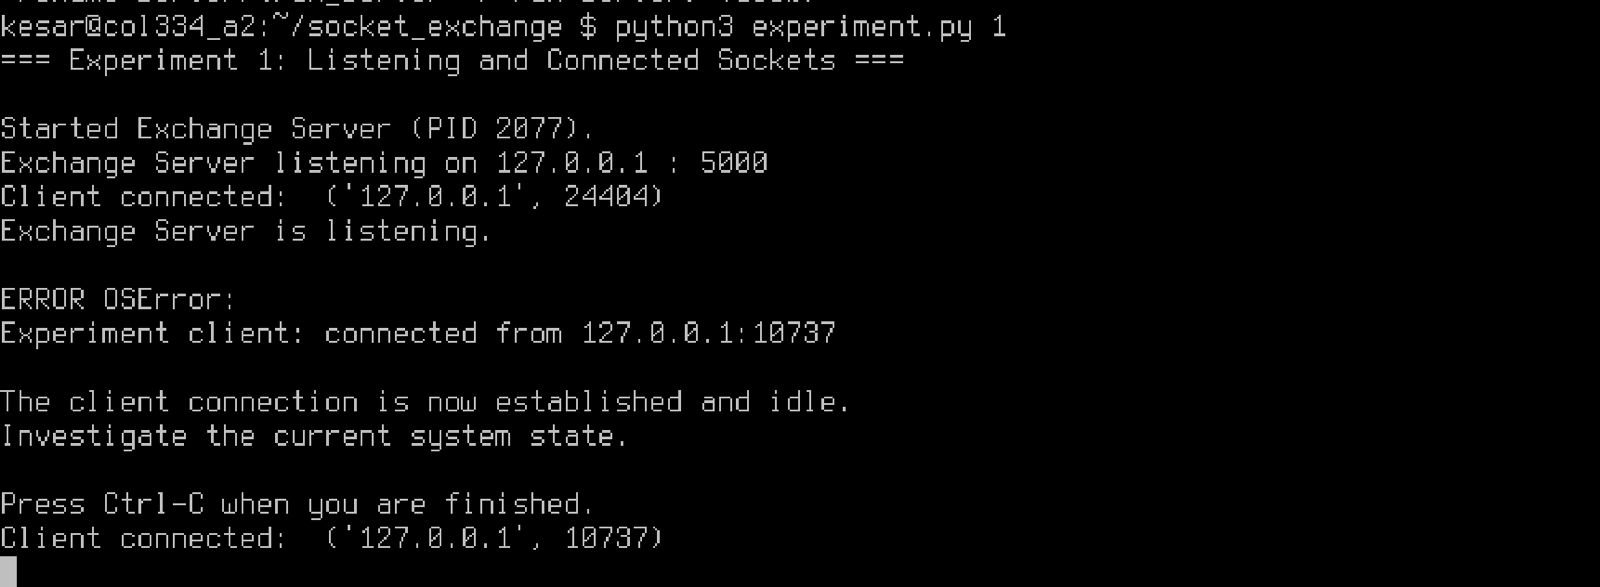
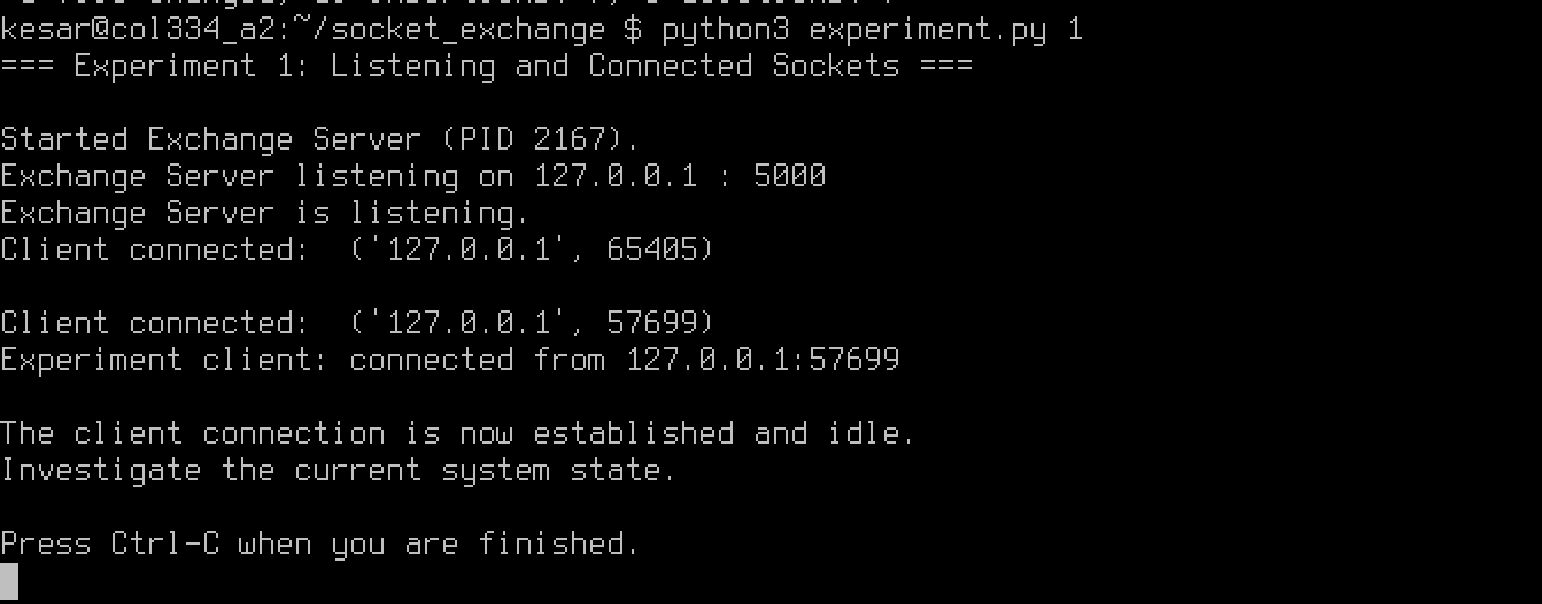
hehe4

diff --git a/sanity_check.py b/sanity_check.py
@@ -1,0 +1,144 @@
+#!/usr/bin/env python3
+import os, socket, subprocess, sys, time
+from pathlib import Path
+
+ROOT = Path(__file__).resolve().parent
+HOST, PORT = "127.0.0.1", 5000
+SERVER = ROOT / "server" / "run-server"
+
+class Fail(Exception): pass
+
+class Client:
+    def __init__(self, name):
+        self.name = name
+        self.s = socket.create_connection((HOST, PORT), timeout=2)
+        self.s.settimeout(0.2)
+        self.buf = b""
+    def send(self, msg): self.s.sendall((msg + "\n").encode())
+    def fragments(self, pieces):
+        for p in pieces:
+            self.s.sendall(p.encode()); time.sleep(.03)
+    def recv(self, timeout=2):
+        end = time.time() + timeout
+        while time.time() < end:
+            if b"\n" in self.buf:
+                line, self.buf = self.buf.split(b"\n", 1)
+                return line.rstrip(b"\r").decode()
+            try:
+                d = self.s.recv(4096)
+                if not d: raise Fail(f"{self.name}: server closed connection")
+                self.buf += d
+            except socket.timeout: pass
+        raise Fail(f"{self.name}: timeout waiting for response")
+    def expect(self, msg):
+        got = self.recv()
+        if got != msg: raise Fail(f"{self.name}: expected {msg!r}, got {got!r}")
+    def close(self):
+        try: self.s.close()
+        except OSError: pass
+
+def wait_for_server(proc):
+    end = time.time() + 3
+    while time.time() < end:
+        if proc.poll() is not None:
+            raise Fail("server exited during startup")
+        try:
+            s = socket.create_connection((HOST, PORT), timeout=.2)
+            s.close(); return
+        except OSError: time.sleep(.05)
+    raise Fail("server did not start listening on 127.0.0.1:5000")
+
+def check_launchers():
+    paths = [ROOT/"server"/"run-server", ROOT/"client"/"run-trader", ROOT/"client"/"run-market-data"]
+    for p in paths:
+        if not p.is_file(): raise Fail(f"missing required launcher: {p}")
+        if not os.access(p, os.X_OK): raise Fail(f"launcher not executable: {p}")
+    print("PASS 1: required launchers exist and are executable")
+
+def main():
+    check_launchers()
+    proc = subprocess.Popen([str(SERVER), HOST, str(PORT)], cwd=ROOT,
+                            stdout=subprocess.DEVNULL, stderr=subprocess.DEVNULL)
+    clients = []
+    try:
+        wait_for_server(proc); print("Server started")
+
+        a = Client("alice"); clients.append(a); a.send("LOGIN alice"); a.expect("OK")
+        print("PASS 2: basic TCP connection + LOGIN")
+
+        f = Client("framing"); clients.append(f)
+        f.fragments(["LOG", "IN frame", "d_user\n"]); f.expect("OK")
+        print("PASS 3: fragmented TCP message reconstructed")
+
+        zq = Client("zero_qty"); clients.append(zq); zq.send("LOGIN zero_qty"); zq.expect("OK")
+        zq.send("BUY JNST 0 100")
+        if not zq.recv().startswith("ERROR"): raise Fail("zero quantity was accepted")
+        zp = Client("zero_price"); clients.append(zp); zp.send("LOGIN zero_price"); zp.expect("OK")
+        zp.send("BUY JNST 1 0")
+        if not zp.recv().startswith("ERROR"): raise Fail("zero price was accepted")
+        print("PASS 4: zero quantity/price rejected")
+
+        md = Client("md"); clients.append(md); md.send("SUBSCRIBE JNST"); md.expect("OK")
+        md.send("BUY JNST 1 100")
+        if not md.recv().startswith("ERROR"): raise Fail("market-data client placed order")
+        a.send("SUBSCRIBE JNST")
+        if not a.recv().startswith("ERROR"): raise Fail("trader subscribed to market data")
+        print("PASS 5: role restrictions")
+
+        seller = Client("seller"); clients.append(seller); seller.send("LOGIN seller"); seller.expect("OK")
+        a.send("BUY IMCT 5 200"); acc = a.recv()
+        if not acc.startswith("ORDER_ACCEPTED "): raise Fail("BUY not accepted")
+        seller.send("SELL IMCT 5 200"); acc = seller.recv()
+        if not acc.startswith("ORDER_ACCEPTED "): raise Fail("SELL not accepted")
+        a.expect("BOUGHT IMCT 5 200"); seller.expect("SOLD IMCT 5 200")
+        print("PASS 6: matching + BOUGHT/SOLD")
+
+        b = Client("buyer2"); s = Client("seller2"); md2 = Client("md2")
+        clients += [b,s,md2]
+        b.send("LOGIN buyer2"); b.expect("OK"); s.send("LOGIN seller2"); s.expect("OK")
+        md2.send("SUBSCRIBE JNST"); md2.expect("OK")
+        b.send("BUY JNST 10 333"); acc=b.recv()
+        if not acc.startswith("ORDER_ACCEPTED "): raise Fail("partial-fill BUY not accepted")
+        s.send("SELL JNST 4 333"); acc=s.recv()
+        if not acc.startswith("ORDER_ACCEPTED "): raise Fail("partial-fill SELL not accepted")
+        b.expect("BOUGHT JNST 4 333"); s.expect("SOLD JNST 4 333"); md2.expect("TRADE JNST 4 333")
+        s.send("SELL JNST 6 333"); acc=s.recv()
+        if not acc.startswith("ORDER_ACCEPTED "): raise Fail("second SELL not accepted")
+        b.expect("BOUGHT JNST 6 333"); s.expect("SOLD JNST 6 333"); md2.expect("TRADE JNST 6 333")
+        print("PASS 7: partial fills + market-data TRADE")
+
+        c = Client("canceler"); clients.append(c); c.send("LOGIN canceler"); c.expect("OK")
+        c.send("BUY IMCT 7 999"); acc=c.recv()
+        if not acc.startswith("ORDER_ACCEPTED "): raise Fail("unmatched order not accepted")
+        oid=acc.split()[1]; c.send("CANCEL "+oid); c.expect("ORDER_CANCELLED "+oid)
+        print("PASS 8: CANCEL")
+
+        ps = Client("persistent_seller"); clients.append(ps); ps.send("LOGIN persistent_seller"); ps.expect("OK")
+        ps.send("SELL IMCT 3 777"); acc=ps.recv()
+        if not acc.startswith("ORDER_ACCEPTED "): raise Fail("persistent SELL not accepted")
+        ps.close(); clients.remove(ps)
+        lb = Client("later_buyer"); clients.append(lb); lb.send("LOGIN later_buyer"); lb.expect("OK")
+        lb.send("BUY IMCT 3 777"); acc=lb.recv()
+        if not acc.startswith("ORDER_ACCEPTED "): raise Fail("later BUY not accepted")
+        lb.expect("BOUGHT IMCT 3 777")
+        print("PASS 9: orders survive trader disconnect")
+
+        idle=[]
+        for i in range(10): idle.append(Client(f"idle{i}"))
+        time.sleep(.2)
+        for x in idle: x.close()
+        clients.extend(idle)
+        print("PASS 10: 10 simultaneous idle connections")
+
+        print("\nALL SANITY TESTS PASSED")
+    except Exception as e:
+        print("\nFAIL:", e)
+        sys.exit(1)
+    finally:
+        for c in clients: c.close()
+        if proc.poll() is None:
+            proc.terminate()
+            try: proc.wait(timeout=2)
+            except subprocess.TimeoutExpired: proc.kill()
+
+if __name__ == "__main__": main()
